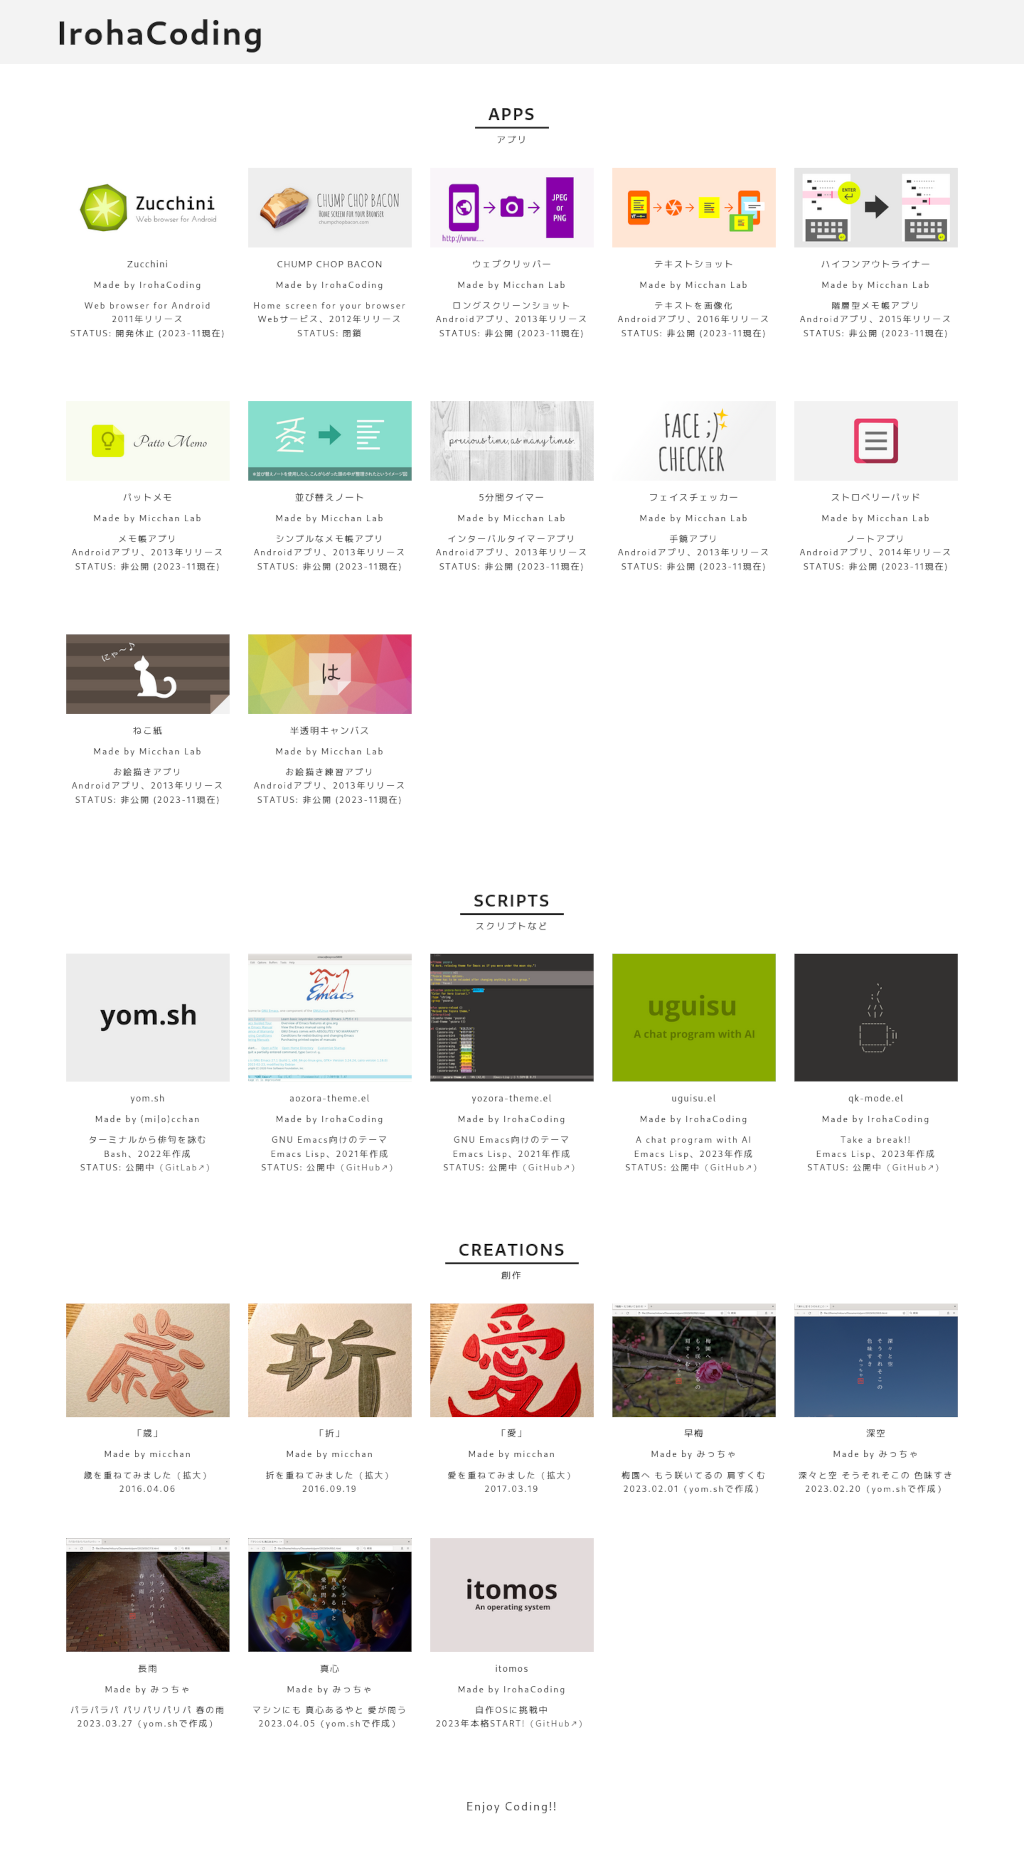
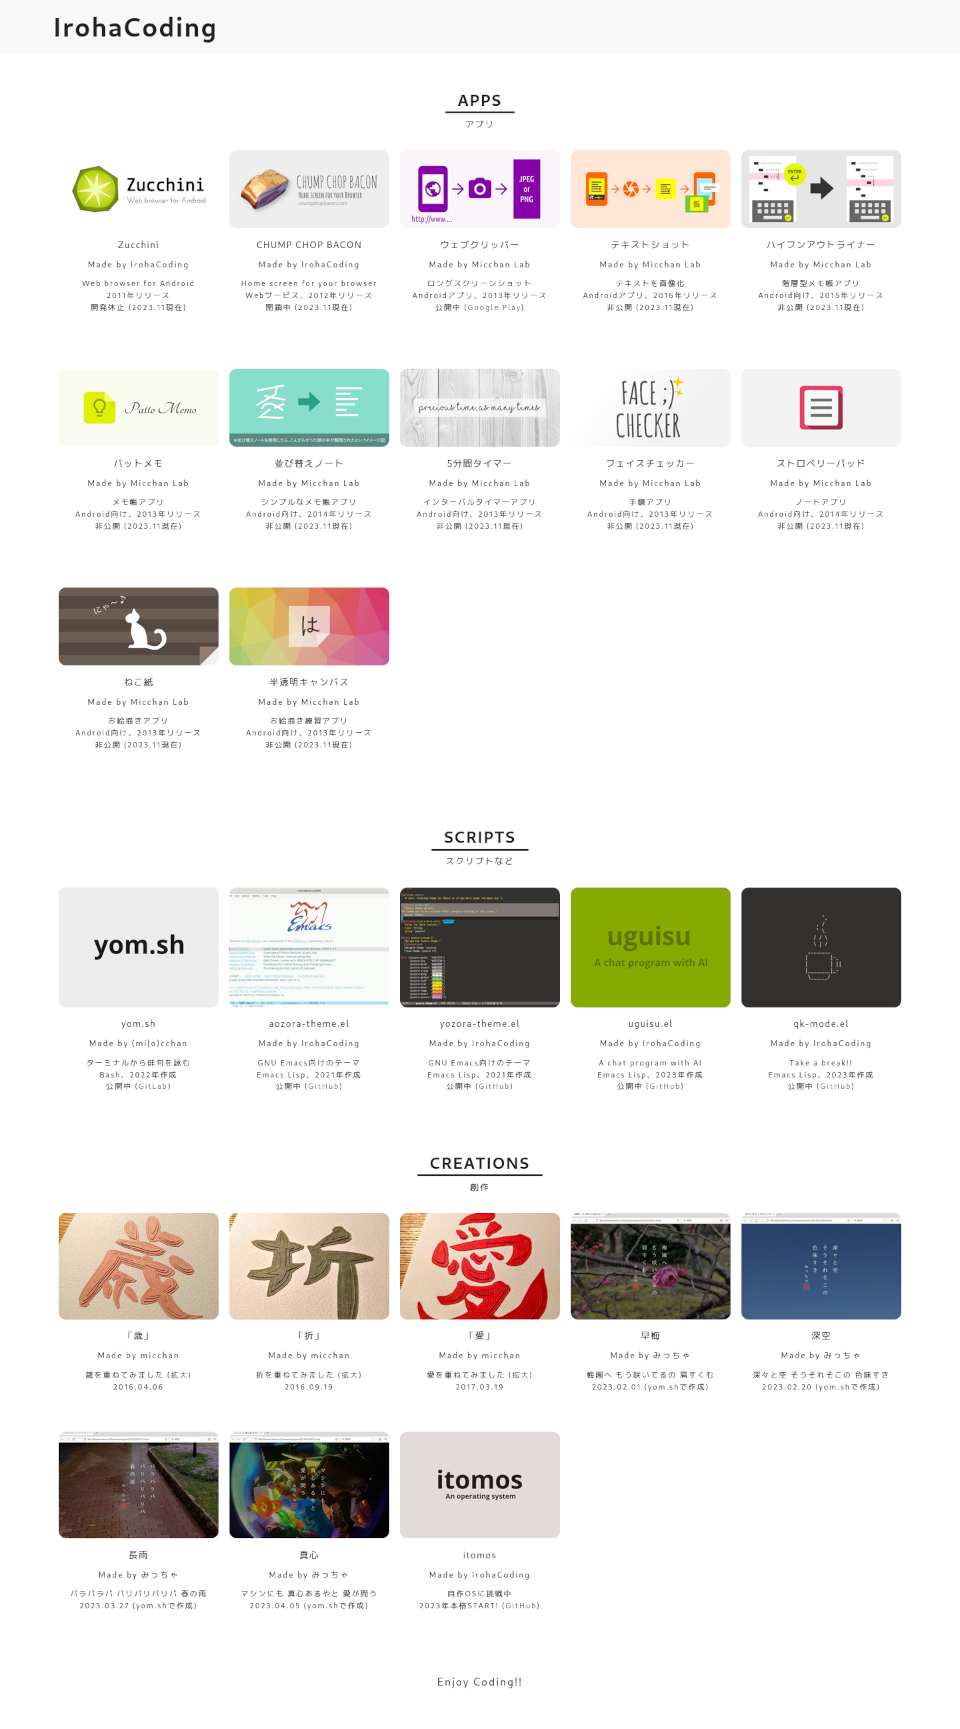
Update main.css and screenshot.png

diff --git a/assets/css/main.css b/assets/css/main.css
@@ -38,9 +38,15 @@ body {
   }
 }
 
-@media (min-width: 960px) {
+@media (min-width: 800px) {
   .column.split {
     width: 33.3%;
+  }
+}
+
+@media (min-width: 1024px) {
+  .column.split {
+    width: 25%;
   }
 }
 
@@ -123,32 +129,31 @@ a:visited {
   width: 100%;
 }
 
-.app-image img {
-  width: 90%;
+.app-image img,
+.script-image img,
+.creation-image img {
+  width: 94%;
   max-width: 512px;
-  border-radius: 2px;
+  border-radius: 11px;
+}
+
+.app-image img {
 }
 
 .script-image img {
-  width: 90%;
-  max-width: 512px;
   height: 180px;
-  border-radius: 2px;
   object-fit: cover;
 }
 
 .creation-image img {
-  width: 90%;
-  max-width: 512px;
   height: 160px;
-  border-radius: 2px;
   object-fit: cover;
 }
 
 .app-title,
 .script-title,
 .creation-title {
-  font-size: 80%;
+  font-size: 85%;
   letter-spacing: 0.1em;
 }
 
@@ -162,7 +167,7 @@ a:visited {
 .script-description,
 .creation-description {
   line-height: 1.6em;
-  font-size: 75%;
+  font-size: 70%;
 }
 
 /******** Footer styles ********/
